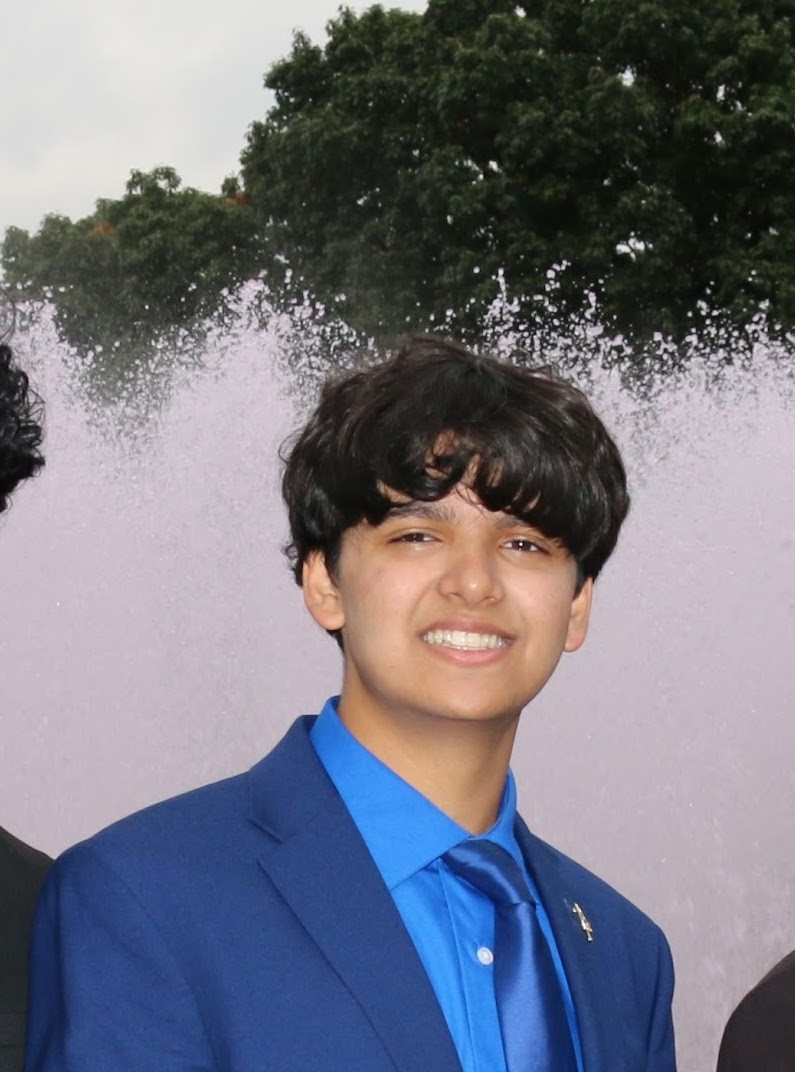
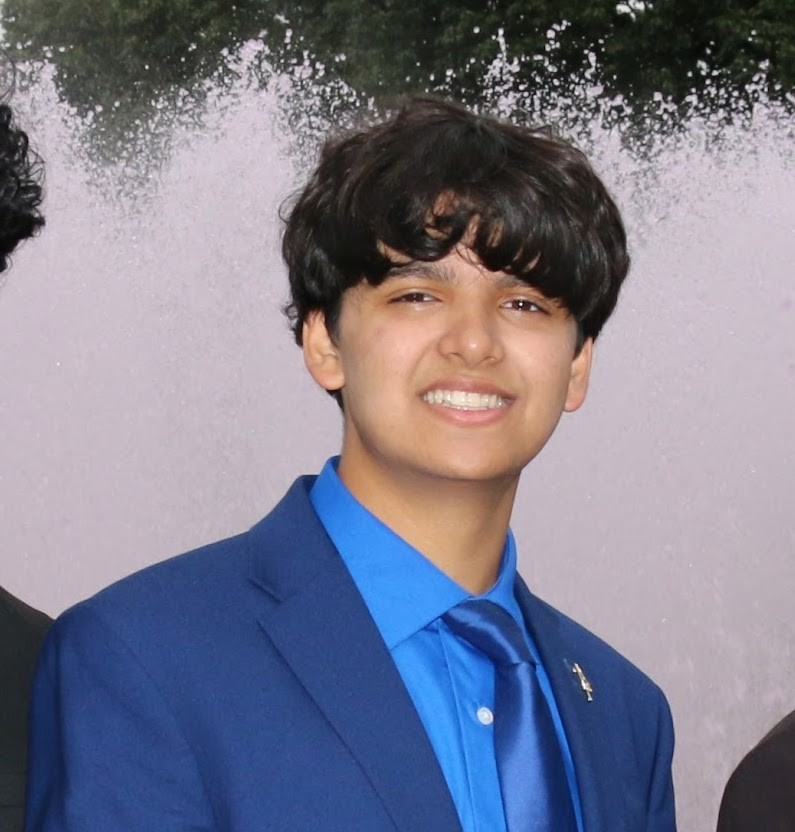
Reframe portrait crop higher and maximize SEO + Google AI Overviews structured data (ProfilePage, FAQPage, Person award array, llms.txt)

diff --git a/index.html b/index.html
@@ -3,34 +3,59 @@
 <head>
     <meta charset="UTF-8">
     <meta name="viewport" content="width=device-width, initial-scale=1.0">
-    <title>Aklavya Kumar | Official Portfolio — Robotics, Brain-Computer Interfaces &amp; Author</title>
-    <meta name="description" content="Official portfolio of Aklavya Kumar (Cumberland Valley High School, Mechanicsburg PA). Author of 'From Healing to Superhuman', CogniTrack EEG Brain-Computer Interface researcher, FTC 8468 The Javengers Lead, and International Research Olympiad Semifinalist.">
-    <meta name="keywords" content="Aklavya Kumar, Aklavya Kumar Cumberland Valley, Aklavya Kumar Mechanicsburg PA, Aklavya Kumar Robotics, Aklavya Kumar From Healing to Superhuman, Aklavya Kumar CogniTrack, Aklavya Kumar BCI, FTC 8468 The Javengers, Aklavya Kumar FBLA, Aklavya Kumar Science Olympiad, Aklavya Kumar Penn State PULSE">
+    <title>Aklavya Kumar | Official Portfolio — Cumberland Valley High School, Robotics &amp; BCI Author</title>
+    <meta name="description" content="Aklavya Kumar is a robotics engineer, Brain-Computer Interface researcher, and published author at Cumberland Valley High School in Mechanicsburg, PA. Author of 'From Healing to Superhuman', CogniTrack EEG BCI developer, FTC 8468 The Javengers Lead, FBLA National Top 10 winner, and IRO Semifinalist.">
+    <meta name="keywords" content="Aklavya Kumar, Who is Aklavya Kumar, Aklavya Kumar Cumberland Valley High School, Aklavya Kumar Mechanicsburg PA, Aklavya Kumar Portfolio, Aklavya Kumar Robotics, Aklavya Kumar From Healing to Superhuman, Aklavya Kumar CogniTrack, Aklavya Kumar Brain Computer Interface, FTC 8468 The Javengers, Aklavya Kumar FBLA, Aklavya Kumar Science Olympiad, Aklavya Kumar Penn State PULSE, Aklavya Kumar IRO, Aklavya Kumar LinkedIn, Aklavya Kumar GitHub">
     <meta name="author" content="Aklavya Kumar">
-    <meta name="robots" content="index, follow, max-image-preview:large, max-snippet:-1">
+    <meta name="robots" content="index, follow, max-image-preview:large, max-snippet:-1, max-video-preview:-1">
+    <meta name="googlebot" content="index, follow, max-snippet:-1, max-image-preview:large">
     <link rel="canonical" href="https://aklavyakumar.vercel.app/">
+    <link rel="alternate" type="text/markdown" href="https://aklavyakumar.vercel.app/llms.txt" title="LLM Entity Summary">
 
-    <!-- Open Graph / Social Discovery -->
+    <!-- Open Graph / Social & Search Discovery -->
     <meta property="og:type" content="profile">
-    <meta property="og:title" content="Aklavya Kumar | Official Engineering &amp; Research Portfolio">
-    <meta property="og:description" content="Aklavya Kumar — Author of 'From Healing to Superhuman', EEG Brain-Computer Interface Researcher (CogniTrack), FTC 8468 The Javengers Lead, and IRO Semifinalist at Cumberland Valley High School.">
+    <meta property="og:title" content="Aklavya Kumar | Official Engineering, Neurotechnology &amp; Robotics Portfolio">
+    <meta property="og:description" content="Official website of Aklavya Kumar (Cumberland Valley High School, Mechanicsburg PA): Author of 'From Healing to Superhuman', CogniTrack EEG BCI Researcher, FTC 8468 The Javengers Lead, and IRO World Semifinalist.">
     <meta property="og:url" content="https://aklavyakumar.vercel.app/">
-    <meta property="og:site_name" content="Aklavya Kumar Portfolio">
+    <meta property="og:site_name" content="Aklavya Kumar">
     <meta property="og:image" content="https://aklavyakumar.vercel.app/img/aklavya.jpg">
+    <meta property="og:image:alt" content="Aklavya Kumar - Engineer, Researcher and Author at Cumberland Valley High School">
     <meta property="profile:first_name" content="Aklavya">
     <meta property="profile:last_name" content="Kumar">
+    <meta property="profile:username" content="aklavyakumar">
 
     <!-- Twitter Card -->
     <meta name="twitter:card" content="summary_large_image">
     <meta name="twitter:title" content="Aklavya Kumar | Engineering, Neurotechnology &amp; Robotics">
-    <meta name="twitter:description" content="Official portfolio of Aklavya Kumar: Published author of 'From Healing to Superhuman', CogniTrack BCI lead, and FTC 8468 Robotics lead.">
+    <meta name="twitter:description" content="Official portfolio of Aklavya Kumar (Cumberland Valley High School, Mechanicsburg PA): Author of 'From Healing to Superhuman', CogniTrack BCI lead, and FTC 8468 Robotics lead.">
     <meta name="twitter:image" content="https://aklavyakumar.vercel.app/img/aklavya.jpg">
 
-    <!-- Schema.org JSON-LD Structured Data for Google Knowledge Graph -->
+    <!-- Comprehensive Schema.org JSON-LD Graph for Google AI Overviews & Knowledge Panel -->
     <script type="application/ld+json">
     {
       "@context": "https://schema.org",
       "@graph": [
+        {
+          "@type": "WebSite",
+          "@id": "https://aklavyakumar.vercel.app/#website",
+          "url": "https://aklavyakumar.vercel.app/",
+          "name": "Aklavya Kumar Official Portfolio",
+          "alternateName": "Aklavya Kumar",
+          "publisher": {
+            "@id": "https://aklavyakumar.vercel.app/#person"
+          }
+        },
+        {
+          "@type": "ProfilePage",
+          "@id": "https://aklavyakumar.vercel.app/#profilepage",
+          "url": "https://aklavyakumar.vercel.app/",
+          "name": "Aklavya Kumar — Official Engineering, Neurotechnology & Robotics Portfolio",
+          "dateCreated": "2025-06-24",
+          "dateModified": "2026-10-27",
+          "mainEntity": {
+            "@id": "https://aklavyakumar.vercel.app/#person"
+          }
+        },
         {
           "@type": "Person",
           "@id": "https://aklavyakumar.vercel.app/#person",
@@ -38,11 +63,17 @@
           "givenName": "Aklavya",
           "familyName": "Kumar",
           "url": "https://aklavyakumar.vercel.app/",
-          "image": "https://aklavyakumar.vercel.app/img/aklavya.jpg",
+          "image": {
+            "@type": "ImageObject",
+            "url": "https://aklavyakumar.vercel.app/img/aklavya.jpg",
+            "width": 795,
+            "height": 832,
+            "caption": "Aklavya Kumar — Cumberland Valley High School Engineer, Researcher, and Author"
+          },
           "email": "mailto:aklavyakumr@gmail.com",
           "telephone": "+1-233-667-3778",
-          "jobTitle": "Robotics Engineer, Neurotechnology Researcher & Author",
-          "description": "Aklavya Kumar is an engineer, researcher, and published author at Cumberland Valley High School in Mechanicsburg, PA, specializing in autonomous robotics, Brain-Computer Interfaces (BCIs), and algorithms.",
+          "jobTitle": "Robotics Engineer, Brain-Computer Interface Researcher & Published Author",
+          "description": "Aklavya Kumar is a senior at Cumberland Valley High School in Mechanicsburg, Pennsylvania (Class of 2027). He is the author of the book 'From Healing to Superhuman: How Brain-Computer Interfaces Restore Broken Bodies and Enhance Daily Life', lead researcher of the CogniTrack EEG Brain-Computer Interface platform (trained on 500+ neural datasets in Python and PyTorch), Build and Programming Lead for FIRST Tech Challenge Team 8468 The Javengers (FIRST Dean's List Semi-Finalist), an International Research Olympiad (IRO) Semifinalist (Top 10% worldwide), a two-time FBLA National Top-10 winner (8th in Intro to Programming, 10th in Management Information Systems, 1st Place PA State Champion), a Penn State College of Medicine PULSE scholar, and Founder of the CVHS Coding Club and CVHS IRO Club.",
           "address": {
             "@type": "PostalAddress",
             "addressLocality": "Mechanicsburg",
@@ -55,43 +86,117 @@
             "address": {
               "@type": "PostalAddress",
               "addressLocality": "Mechanicsburg",
-              "addressRegion": "PA"
+              "addressRegion": "PA",
+              "addressCountry": "US"
             }
           },
+          "memberOf": [
+            {
+              "@type": "Organization",
+              "name": "FIRST Tech Challenge Team 8468 The Javengers",
+              "url": "http://www.pacar-robotics.org"
+            },
+            {
+              "@type": "Organization",
+              "name": "Cumberland Valley High School Coding Club",
+              "url": "https://fe4rless233.github.io/CVcodingclub/index.html"
+            },
+            {
+              "@type": "Organization",
+              "name": "Association of Bengalis in Harrisburg Area (ABHA)",
+              "url": "https://abhaweb.org/"
+            }
+          ],
+          "award": [
+            "International Research Olympiad (IRO) International Semifinalist (Top 10% Globally among 10,000+ Entrants)",
+            "FBLA 1st Place Pennsylvania State Champion & 10th Place National Winner in Management Information Systems (2026)",
+            "FBLA 3rd Place Pennsylvania State & 8th Place National Winner in Introduction to Programming (2025)",
+            "FBLA 3rd Place Pennsylvania State in Fundamentals of Artificial Intelligence",
+            "FIRST Tech Challenge Dean's List Semi-Finalist (Top 40 in Pennsylvania) & 3x State Finalist (12 Team Awards)",
+            "Science Olympiad National Multi-Medalist: 30+ Invitational Medals (3rd MIT Hovercraft, 4th Penn State Electric Vehicle, 5th Robot Tour) & 19th/20th National Team Finishes",
+            "Scholastic Art & Writing Awards Gold Key Winner for Personal Memoir (National Qualifier)",
+            "Penn State College of Medicine PULSE Program Scholar (1 of 30 Selected Statewide)",
+            "DECA 3rd Place Regional Winner in Principles of Marketing",
+            "North South Foundation 2nd Place Regional Winner in Senior Public Speaking (2025 & 2026)"
+          ],
           "sameAs": [
             "https://www.linkedin.com/in/aklavyakumar",
             "https://github.com/Fe4Rless233",
             "https://medium.com/@aklavyakumr",
-            "https://www.credly.com/badges/4bc863de-348f-409d-92ae-2020ad48edf7/linked_in_profile"
+            "https://www.credly.com/badges/4bc863de-348f-409d-92ae-2020ad48edf7/linked_in_profile",
+            "https://fe4rless233.github.io/CVcodingclub/index.html",
+            "https://abhaweb.org/"
           ],
           "knowsAbout": [
-            "Brain-Computer Interfaces",
+            "Brain-Computer Interfaces (BCI)",
+            "EEG Neural Signal Processing",
             "Autonomous Robotics",
-            "Java",
-            "Python",
-            "PyTorch",
-            "C++",
-            "React",
-            "Next.js",
-            "Machine Learning"
+            "Java (RoadRunner, PedroPathing)",
+            "Python (PyTorch, TensorFlow, NumPy, Pandas)",
+            "C and C++ (Competitive Algorithms, USACO)",
+            "Full-Stack Web Development (React, Next.js, TypeScript, Node.js, PostgreSQL)",
+            "3D CAD Design (OnShape, Autodesk Fusion 360, OpenSCAD)"
           ]
         },
         {
           "@type": "Book",
+          "@id": "https://aklavyakumar.vercel.app/#book",
           "name": "From Healing to Superhuman: How Brain-Computer Interfaces Restore Broken Bodies and Enhance Daily Life",
           "author": {
             "@id": "https://aklavyakumar.vercel.app/#person"
           },
           "image": "https://aklavyakumar.vercel.app/img/from_healing_to_superhuman.jpg",
-          "description": "How Brain-Computer Interfaces Restore Broken Bodies and Enhance Daily Life, written by Aklavya Kumar."
+          "url": "https://www.amazon.com/s?k=From+Healing+to+Superhuman+Aklavya+Kumar",
+          "description": "Written by Aklavya Kumar, this book examines the engineering, clinical rehabilitation applications, cognitive enhancement capabilities, and ethical questions surrounding Brain-Computer Interfaces (BCIs)."
         },
         {
           "@type": "ScholarlyArticle",
+          "@id": "https://aklavyakumar.vercel.app/#cognitrack-paper",
           "headline": "CogniTrack: An EEG-Based Brain-Computer Interface for Objective Monitoring of Cognitive Fatigue and Student Burnout",
           "author": {
             "@id": "https://aklavyakumar.vercel.app/#person"
           },
-          "url": "https://docs.google.com/document/d/1GCnS6kl_VVaN-jITx9sfBQzqym1Ut4TVTBo4DzyOyy4/edit?usp=sharing"
+          "url": "https://docs.google.com/document/d/1GCnS6kl_VVaN-jITx9sfBQzqym1Ut4TVTBo4DzyOyy4/edit?usp=sharing",
+          "sameAs": "https://medium.com/@aklavyakumr/cognitrack-a-brain-computer-interface-for-objective-monitoring-of-cognitive-fatigue-and-student-2f5b4cb5b3b6?sharedUserId=aklavyakumr",
+          "description": "Formal computational biomedical research paper by Aklavya Kumar detailing an EEG signal processing and PyTorch deep learning platform trained on 500+ neural datasets to detect cognitive fatigue."
+        },
+        {
+          "@type": "FAQPage",
+          "@id": "https://aklavyakumar.vercel.app/#faq",
+          "mainEntity": [
+            {
+              "@type": "Question",
+              "name": "Who is Aklavya Kumar?",
+              "acceptedAnswer": {
+                "@type": "Answer",
+                "text": "Aklavya Kumar is a robotics engineer, Brain-Computer Interface (BCI) researcher, full-stack developer, and published author at Cumberland Valley High School in Mechanicsburg, Pennsylvania (Class of 2027). He is the author of the book 'From Healing to Superhuman', creator of the CogniTrack EEG BCI system, Build & Programming Lead for FTC Team 8468 The Javengers, an International Research Olympiad (IRO) Semifinalist (Top 10% worldwide), and a two-time FBLA National Top-10 winner."
+              }
+            },
+            {
+              "@type": "Question",
+              "name": "What book and research papers has Aklavya Kumar published?",
+              "acceptedAnswer": {
+                "@type": "Answer",
+                "text": "Aklavya Kumar authored and published the book 'From Healing to Superhuman: How Brain-Computer Interfaces Restore Broken Bodies and Enhance Daily Life' on Amazon. He also authored the formal research paper 'CogniTrack: An EEG-Based Brain-Computer Interface for Objective Monitoring of Cognitive Fatigue and Student Burnout', in which he trained deep learning models in Python and PyTorch across 500+ neural signal datasets."
+              }
+            },
+            {
+              "@type": "Question",
+              "name": "What robotics and engineering teams does Aklavya Kumar lead?",
+              "acceptedAnswer": {
+                "@type": "Answer",
+                "text": "Aklavya Kumar serves as Build & Programming Lead for FIRST Tech Challenge (FTC) Team 8468 The Javengers in Mechanicsburg, PA (and previously competed with FTC 14464 BotBusters), where he was named a FIRST Dean's List Semi-Finalist and led the team to 3 PA State Championship Finals and 12 competitive awards. In Science Olympiad at Cumberland Valley High School, he is a varsity robotics developer who has won 30+ invitational medals (including 3rd at MIT in Hovercraft, 4th at Penn State in Electric Vehicle, and 5th in Robot Tour) and helped the team place 19th (2024) and 20th (2025) at Nationals."
+              }
+            },
+            {
+              "@type": "Question",
+              "name": "What clubs, internships, and community initiatives has Aklavya Kumar founded or led?",
+              "acceptedAnswer": {
+                "@type": "Answer",
+                "text": "At Cumberland Valley High School, Aklavya Kumar founded and serves as President of both the CVHS Coding Club (training 70+ students across 25+ workshops in C++ and Python, with 4 members reaching USACO Silver) and the CVHS International Research Olympiad (IRO) Club (mentoring 60+ student researchers). He was selected as 1 of 30 students statewide for the Penn State College of Medicine PULSE clinical pathway (40+ shadowing hours), serves as FBLA Region 26 Regional Treasurer, engineered the official React/Next.js web platform for the Association of Bengalis in Harrisburg Area (abhaweb.org, serving 1,000+ users), and has volunteered for 10+ years with the Central Pennsylvania Food Bank (funding 14,000+ meals)."
+              }
+            }
+          ]
         }
       ]
     }
@@ -185,7 +290,7 @@
                 <!-- Portrait Frame: First on mobile (order-1), second on desktop (order-lg-2) -->
                 <div class="col-lg-5 text-center order-1 order-lg-2">
                     <div class="profile-frame">
-                        <img src="img/aklavya.jpg" alt="Aklavya Kumar - Engineer, Researcher & Author at Cumberland Valley High School" width="795" height="1072" class="profile-img-main">
+                        <img src="img/aklavya.jpg" alt="Aklavya Kumar - Engineer, Researcher & Author at Cumberland Valley High School" width="795" height="832" class="profile-img-main">
                         <div class="profile-caption">AKLAVYA KUMAR // MECHANICSBURG, PA</div>
                     </div>
                 </div>
@@ -199,7 +304,7 @@
                         &gt; <span id="typewriter-text"></span>
                     </div>
                     <p class="hero-bio">
-                        I am <strong>Aklavya Kumar</strong>, an engineer, researcher, and author at Cumberland Valley High School in Mechanicsburg, Pennsylvania. I build millimeter-accurate Java autonomous navigation systems for <strong>FIRST Tech Challenge (FTC 8468 The Javengers)</strong>, develop EEG-based <strong>Brain-Computer Interfaces</strong> in Python and PyTorch across 500+ neural datasets, and wrote the book <strong>"From Healing to Superhuman"</strong>.
+                        <strong>Aklavya Kumar</strong> is an engineer, neurotechnology researcher, and published author at <strong>Cumberland Valley High School</strong> in Mechanicsburg, Pennsylvania (Class of 2027). He builds millimeter-accurate Java autonomous navigation systems for <strong>FIRST Tech Challenge Team 8468 The Javengers</strong>, develops EEG-based <strong>Brain-Computer Interfaces (CogniTrack)</strong> in Python and PyTorch across 500+ neural datasets, and authored the book <strong>"From Healing to Superhuman"</strong>.
                     </p>
                     
                     <div class="d-flex flex-wrap align-items-center gap-3 mb-4 mono-meta justify-content-center justify-content-lg-start">
@@ -258,7 +363,7 @@
         <div class="container">
             <div class="section-header">
                 <span class="mono-label">01 // PUBLISHED LITERATURE &amp; NEUROTECHNOLOGY RESEARCH</span>
-                <h2 class="section-title">Book &amp; Formal Research Paper</h2>
+                <h2 class="section-title">Book &amp; Formal Research Paper by Aklavya Kumar</h2>
                 <p class="section-desc">
                     Investigating how Brain-Computer Interfaces and deep learning models decode neural signals to restore human function and prevent cognitive fatigue.
                 </p>
@@ -320,7 +425,7 @@
         <div class="container">
             <div class="section-header">
                 <span class="mono-label">02 // TECHNICAL REPOSITORY</span>
-                <h2 class="section-title">Engineering Projects &amp; Systems</h2>
+                <h2 class="section-title">Aklavya Kumar's Engineering Projects &amp; Systems</h2>
                 <p class="section-desc">
                     Filter by domain or search specific technologies (PyTorch, RoadRunner, PedroPathing, Next.js, Hovercraft, USACO).
                 </p>
@@ -355,7 +460,7 @@
                 <span class="mono-label">03 // COMPETITIVE STANDINGS</span>
                 <h2 class="section-title">International, National &amp; State Honors</h2>
                 <p class="section-desc">
-                    Recognitions earned across global scientific research, autonomous robotics, business systems, and writing.
+                    Recognitions earned by Aklavya Kumar across global scientific research, autonomous robotics, business systems, and writing.
                 </p>
             </div>
 
@@ -421,11 +526,66 @@
         </div>
     </section>
 
+    <!-- Structured Entity Profile & FAQ Section (Directly Feeds Google AI Overviews & Search Snippets) -->
+    <section id="entity-summary" class="section-padding">
+        <div class="container">
+            <div class="section-header">
+                <span class="mono-label">04 // BIOGRAPHICAL OVERVIEW &amp; QUICK FACTS</span>
+                <h2 class="section-title">About Aklavya Kumar</h2>
+                <p class="section-desc">
+                    Comprehensive summary of Aklavya Kumar's engineering projects, published works, academic honors, and institutional affiliations.
+                </p>
+            </div>
+
+            <div class="row g-4">
+                <div class="col-md-6">
+                    <div class="arch-panel h-100">
+                        <span class="mono-label">IDENTITY &amp; EDUCATION</span>
+                        <h3 class="h5 text-white mb-2">Who is Aklavya Kumar?</h3>
+                        <p class="small mb-0">
+                            <strong>Aklavya Kumar</strong> is an engineer, neurotechnology researcher, full-stack developer, and published author at <strong>Cumberland Valley High School</strong> in Mechanicsburg, Pennsylvania (Class of 2027). His work focuses on autonomous robotics, EEG Brain-Computer Interfaces (BCIs), and competitive computer science algorithms.
+                        </p>
+                    </div>
+                </div>
+
+                <div class="col-md-6">
+                    <div class="arch-panel h-100">
+                        <span class="mono-label">BOOKS &amp; RESEARCH PAPERS</span>
+                        <h3 class="h5 text-white mb-2">What has Aklavya Kumar published?</h3>
+                        <p class="small mb-0">
+                            Aklavya Kumar is the author of the book <strong>"From Healing to Superhuman: How Brain-Computer Interfaces Restore Broken Bodies and Enhance Daily Life"</strong> on Amazon, as well as the formal research paper <strong>"CogniTrack: An EEG-Based Brain-Computer Interface for Objective Monitoring of Cognitive Fatigue and Student Burnout"</strong>, built in Python and PyTorch across 500+ neural datasets.
+                        </p>
+                    </div>
+                </div>
+
+                <div class="col-md-6">
+                    <div class="arch-panel h-100">
+                        <span class="mono-label">ROBOTICS &amp; HARDWARE</span>
+                        <h3 class="h5 text-white mb-2">What robotics teams does Aklavya Kumar lead?</h3>
+                        <p class="small mb-0">
+                            He serves as Build &amp; Programming Lead for <strong>FIRST Tech Challenge Team 8468 The Javengers</strong> in Mechanicsburg, PA (and previously FTC 14464 BotBusters), earning <strong>FIRST Dean's List Semi-Finalist</strong> honors, 3 PA State Championship Finals appearances, and 12 team awards. In <strong>Science Olympiad</strong>, he has won 30+ invitational medals (3rd MIT Hovercraft, 4th Penn State Electric Vehicle, 5th Robot Tour) and helped CVHS place 19th (2024) and 20th (2025) Nationally.
+                        </p>
+                    </div>
+                </div>
+
+                <div class="col-md-6">
+                    <div class="arch-panel h-100">
+                        <span class="mono-label">LEADERSHIP, MEDICINE &amp; COMMUNITY</span>
+                        <h3 class="h5 text-white mb-2">What organizations and clinical programs is Aklavya Kumar part of?</h3>
+                        <p class="small mb-0">
+                            Aklavya Kumar founded and serves as President of the <strong>CVHS Coding Club</strong> (70+ students trained, 4 USACO Silver members) and the <strong>CVHS International Research Olympiad Club</strong> (60+ student researchers). He was selected as 1 of 30 students statewide for the <strong>Penn State College of Medicine PULSE</strong> pathway, serves as <strong>FBLA Region 26 Treasurer</strong>, built the official React/Next.js site for <strong>ABHA (abhaweb.org)</strong> serving 1,000+ users, and has volunteered for 10+ years with the <strong>Central Pennsylvania Food Bank</strong> (14,000+ meals funded).
+                        </p>
+                    </div>
+                </div>
+            </div>
+        </div>
+    </section>
+
     <!-- Multi-Page Directory Grid -->
     <section class="section-padding">
         <div class="container">
             <div class="section-header">
-                <span class="mono-label">04 // PORTFOLIO SECTIONS</span>
+                <span class="mono-label">05 // PORTFOLIO SECTIONS</span>
                 <h2 class="section-title">Explore Full Documentation</h2>
                 <p class="section-desc">Navigate into specialized pages covering robotics hardware, research papers, community engineering, and technical stack.</p>
             </div>

diff --git a/style.css b/style.css
@@ -421,11 +421,11 @@ a {
     line-height: 1.7;
 }
 
-/* Architectural Portrait Frame (Calibrated for 795x1072 Top-Half Portrait) */
+/* Architectural Portrait Frame (Calibrated for 795x832 Headshot Portrait) */
 .profile-frame {
     position: relative;
-    width: 310px;
-    height: 390px;
+    width: 320px;
+    height: 340px;
     max-width: 85vw;
     margin: 0 auto;
     border: 2px solid var(--text-pure);
@@ -438,7 +438,7 @@ a {
     width: 100%;
     height: 100%;
     object-fit: cover;
-    object-position: center top;
+    object-position: center 15%;
     display: block;
     filter: contrast(1.04);
 }
@@ -447,7 +447,7 @@ a {
     font-family: var(--font-mono);
     font-size: 0.72rem;
     text-transform: uppercase;
-    letter-spacing: 0.1em;
+    letter-spacing: 0.08em;
     background-color: var(--bg-obsidian);
     color: var(--text-pure);
     border: 1px solid var(--border-strong);
@@ -455,6 +455,7 @@ a {
     position: absolute;
     bottom: -14px;
     left: 16px;
+    white-space: nowrap;
 }
 
 /* --- Telemetry Ledger Bar (Replaces Generic Stat Boxes) --- */

diff --git a/about.html b/about.html
@@ -73,7 +73,7 @@
             <div class="row align-items-center g-4 g-lg-5 mb-5">
                 <div class="col-lg-5 text-center order-1">
                     <div class="profile-frame">
-                        <img src="img/aklavya.jpg" alt="Aklavya Kumar - Cumberland Valley High School" width="795" height="1072" class="profile-img-main">
+                        <img src="img/aklavya.jpg" alt="Aklavya Kumar - Cumberland Valley High School" width="795" height="832" class="profile-img-main">
                         <div class="profile-caption">AKLAVYA KUMAR // MECHANICSBURG, PA</div>
                     </div>
                 </div>
